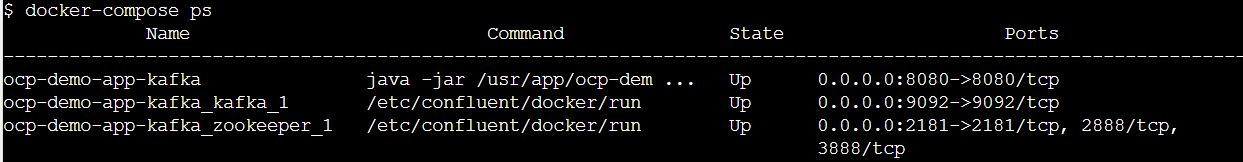
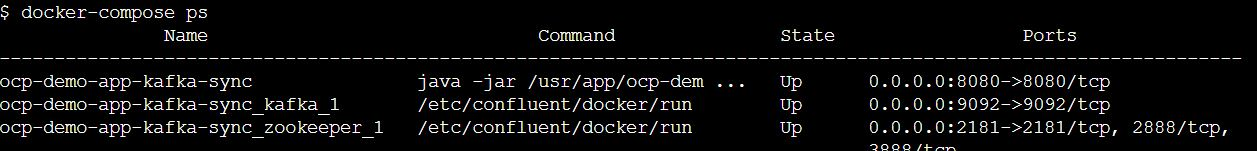
updated ocp-demo-app-kafka-sync

diff --git a/ocp-demo-app-kafka-sync/README.md b/ocp-demo-app-kafka-sync/README.md
@@ -36,12 +36,11 @@ Make sure you are at folder /ocp-demo-app/ocp-demo-app-kafka and run below comma
 * 	This command will use the default file name **docker-compose.yml** 
 * 	Just for demo purpose we are creating only 1-1 instance of zookeeper and kafka. 
 
-![Demo App](images/single-node-zoo-kafka.jpeg)
+![](images/single-node-zoo-kafka.jpeg)
 
 * 	Here is the content of docker-compose.yml
 	
 	version: '3.3'
-
 	services:
 	  zookeeper:
 	    image: confluentinc/cp-zookeeper
@@ -50,6 +49,7 @@ Make sure you are at folder /ocp-demo-app/ocp-demo-app-kafka and run below comma
 	    environment:
 	      - ALLOW_ANONYMOUS_LOGIN=yes
 	      - ZOOKEEPER_CLIENT_PORT=2181
+	
 	
 	  kafka:
 	    image: confluentinc/cp-kafka
@@ -66,9 +66,10 @@ Make sure you are at folder /ocp-demo-app/ocp-demo-app-kafka and run below comma
 	      - KAFKA_OFFSETS_TOPIC_REPLICATION_FACTOR=1
 	      - KAFKA_AUTO_CREATE_TOPICS_ENABLE=true
 	      
+	      
 	  ocp-demo-app-kafka:
 	    build: .
-	    container_name: ocp-demo-app-kafka-stream
+	    container_name: ocp-demo-app-kafka-sync
 	    depends_on:
 	      - zookeeper
 	      - kafka
@@ -77,8 +78,7 @@ Make sure you are at folder /ocp-demo-app/ocp-demo-app-kafka and run below comma
 	      - 8080:8080
 	    environment:
 	      - KAFKA_ENDPOINT=localhost:9092
-
-
+	            
 
 * 	Before running this , you would like to replace the **localhost** with your ip address. 
 
@@ -87,7 +87,6 @@ Make sure you are at folder /ocp-demo-app/ocp-demo-app-kafka and run below comma
 *	Now lets **create/build** image for ocp-demo-app-kafka
 
 	$ docker-compose build
-	
 	
 * 	this command will create image for ocp-demo-app-kafka and you can verify this with docker images comamnd
 
@@ -118,25 +117,23 @@ Make sure you are at folder /ocp-demo-app/ocp-demo-app-kafka and run below comma
 
 *	use below commands to create image and tag and push to docker hub
 
-*	go to folder /ocp-demo-app/ocp-demo-app-db
+*	go to folder /ocp-demo-app/ocp-demo-app-kafka-sync
 
 *	build image with required tag
 
-	$ docker build . -t sumitgupta28/ocp-demo-app-kafka-stream
+	$ docker build . -t <<docker-hub-user-id>>/ocp-demo-app-kafka-sync
 	
-*	this will create docker image with tag	**sumitgupta28/ocp-demo-app-kafka-stream:latest**
+*	this will create docker image with tag	**<<docker-hub-user-id>>/ocp-demo-app-kafka-sync:latest**
 
-*	docker login
+*	docker login [provide your docker-hub username and password] and c
 	
 	$ docker login
 
 *	docker push
 
-	$ docker push sumitgupta28/ocp-demo-app-kafka-stream
+	$ docker push <<docker-hub-user-id>>/ocp-demo-app-kafka-sync
 	
 	
-![Docker Push](images/docker-push.JPG) 
-
 ![Docker Push](images/docker-push-1.JPG) 
 
 
@@ -281,21 +278,20 @@ This will create kafka Server and StatefulSet of kafka with 3 replicas
 	
 > 2.    **Deploy Producer/Consumer Application**
 
-this will create Deployemnt and Service for **ocp-demo-app-kafka-stream** app and 
+this will create Deployemnt and Service for **ocp-demo-app-kafka-sync** app and 
 
-	
 	---
 	
 	apiVersion: v1
 	kind: Service
 	metadata:
-	  name: ocp-demo-app-kafka-stream
+	  name: ocp-demo-app-kafka-sync
 	  labels:
-	    app: ocp-demo-app-kafka-stream
+	    app: ocp-demo-app-kafka-sync
 	spec:
 	  type: NodePort
 	  selector:
-	    app: ocp-demo-app-kafka-stream
+	    app: ocp-demo-app-kafka-sync
 	  ports:
 	  - protocol: TCP
 	    port: 8080
@@ -306,27 +302,26 @@ this will create Deployemnt and Service for **ocp-demo-app-kafka-stream** app an
 	apiVersion: apps/v1
 	kind: Deployment
 	metadata:
-	  name: ocp-demo-app-kafka-stream
+	  name: ocp-demo-app-kafka-sync
 	spec:
 	  selector:
 	    matchLabels:
-	      app: ocp-demo-app-kafka-stream
+	      app: ocp-demo-app-kafka-sync
 	  replicas: 1
 	  template:
 	    metadata:
 	      labels:
-	        app: ocp-demo-app-kafka-stream
+	        app: ocp-demo-app-kafka-sync
 	    spec:
 	      containers:
-	      - name: ocp-demo-app-kafka-stream
-	        image: sumitgupta28/ocp-demo-app-kafka-stream:latest
+	      - name: ocp-demo-app-kafka-sync
+	        image: sumitgupta28/ocp-demo-app-kafka-sync:latest
 	        ports:
 	        - containerPort: 8080
 	        env:
 	          - name: KAFKA_ENDPOINT
 	            value: kafka:9092
-	
-	
+	            
 	
 ![Docker Push](images/ocp-demo-app-kafka-k8s.png) 
 
@@ -334,38 +329,40 @@ this will create Deployemnt and Service for **ocp-demo-app-kafka-stream** app an
 
 ### Kubernetes lets apply..
 
-		
-	$ kubectl apply -f ocp-demo-app-kafka-stream.yml
+	
+	$ kubectl apply  -f ocp-demo-app-kafka-sync.yml
 	service/zookeeper-service created
 	deployment.apps/zookeeper created
 	service/kafka created
 	statefulset.apps/kafka created
-	service/ocp-demo-app-kafka-stream created
-	deployment.apps/ocp-demo-app-kafka-stream created
-			
+	service/ocp-demo-app-kafka-sync created
+	deployment.apps/ocp-demo-app-kafka-sync created
+		
 
 **Validate All the objects**
 
-	
+
 	$ kubectl get all
-	NAME                                             READY   STATUS    RESTARTS   AGE
-	pod/kafka-0                                      1/1     Running   0          5m
-	pod/kafka-1                                      1/1     Running   0          5m9s
-	pod/kafka-2                                      1/1     Running   0          5m34s
-	pod/ocp-demo-app-kafka-stream-5cc96fb497-bmwcg   1/1     Running   0          22m
-	pod/zookeeper-cf4546599-bqqql                    1/1     Running   0          22m
+	NAME                                           READY   STATUS    RESTARTS   AGEpod/kafka-0                                    1/1     Running   0          87s
+	pod/kafka-1                                    1/1     Running   0          57spod/kafka-2                                    1/1     Running   0          54s
+	pod/ocp-demo-app-kafka-sync-65f5cbd7fb-67dgn   1/1     Running   0          87spod/zookeeper-cf4546599-2rnn9                  1/1     Running   0          87s
 	
-	NAME                                TYPE        CLUSTER-IP       EXTERNAL-IP   PORT(S)          AGE
-	service/kafka                       ClusterIP   None             <none>        9092/TCP         22m
-	service/ocp-demo-app-kafka-stream   NodePort    10.109.140.207   <none>        8080:30080/TCP   22m
-	service/zookeeper-service           NodePort    10.108.213.119   <none>        2181:30462/TCP   22m
-	
-	NAME                                        READY   UP-TO-DATE   AVAILABLE   AGE
-	deployment.apps/ocp-demo-app-kafka-stream   1/1     1            1           22m
-	deployment.apps/zookeeper                   1/1     1            1           22m
-	
-	NAME                                                   DESIRED   CURRENT   READY   AGE
-	replicaset.apps/ocp-demo-app-kafka-stream-5cc96fb497   1         1         1       22mreplicaset.apps/zookeeper-cf4546599                    1         1         1       22m
+	NAME                              TYPE        CLUSTER-IP       EXTERNAL-IP   PORT(S)          AGE
+	service/kafka                     ClusterIP   None             <none>        9092/TCP         87s
+	service/ocp-demo-app-kafka-sync   NodePort    10.111.244.232   <none>        8080:30080/TCP   87s
+	service/zookeeper-service         NodePort    10.104.141.46    <none>        2181:30126/TCP   87s
+
+	NAME                                      READY   UP-TO-DATE   AVAILABLE   AGE
+	deployment.apps/ocp-demo-app-kafka-sync   1/1     1            1           87s
+	deployment.apps/zookeeper                 1/1     1            1           87s
+
+	NAME                                                 DESIRED   CURRENT   READY   AGE
+	replicaset.apps/ocp-demo-app-kafka-sync-65f5cbd7fb   1         1         1       87s
+	replicaset.apps/zookeeper-cf4546599                  1         1         1       87s
+
+	NAME                     READY   AGE
+	statefulset.apps/kafka   3/3     87s
+
 	
 
 ### Validate Application..
@@ -378,20 +375,44 @@ This Application has swagger configured and both the exposed urls can be tested 
 
 #### Test with curl
 
-	curl -X POST --header 'Content-Type: application/json' --header 'Accept: text/plain' -d '{
-	  "contents": "Sample Message"
-	}' 'https://2886795294-30080-ollie09.environments.katacoda.com/sendMessage/complexType'
+	curl -X POST --header 'Content-Type: application/json' --header 'Accept: application/json' -d '{
+	  "emailId": "Sumit@mail.com",
+	  "firstName": "string",
+	  "lastName": "string"
+	}' 'http://ip172-18-0-12-bvvv0mb6hnp0009smbq0-8080.direct.labs.play-with-docker.com/emp/calSal'
+	
+**Response Body**
 
+	{
+	  "name": "string string",
+	  "sal": "6370$"
+	}
 
-	2021-01-14 06:27:54.571  INFO 1 --- [container-0-C-1] com.ocp.demo.kafka.consumer.Consumer     : recieved a complex message : [6:27:54 AM]: Sample Message
-	2021-01-14 06:27:54.571  INFO 1 --- [container-0-C-1] com.ocp.demo.kafka.consumer.Consumer     : recieved a string message : {"contents":"Sample Message","time":1610605674560}
 	
 	
-	curl -X POST --header 'Content-Type: application/json' --header 'Accept: text/plain' -d '{
-	"Name": "Sumit"
-	}' 'https://2886795294-30080-ollie09.environments.katacoda.com/sendMessage/string'
+	
+**Curl**
+	
+	curl -X POST --header 'Content-Type: application/json' --header 'Accept: application/json' -d '{
+	  "emailId": "string",
+	  "firstName": "string",
+	  "lastName": "string"
+	}' 'https://2886795280-30080-cykoria03.environments.katacoda.com/emp/calSal'
+	
 
+**Request URL**
 
-	2021-01-14 06:31:36.379  INFO 1 --- [container-0-C-1] com.ocp.demo.kafka.consumer.Consumer     : recieved a string message : {
-	"Name": "Sumit"
+	https://2886795280-30080-cykoria03.environments.katacoda.com/emp/calSal
+
+**Request Headers**
+
+	{
+	  "Accept": "application/json"
+	}
+
+**Response Body**
+
+	{
+	  "name": "string string",
+	  "sal": "1534$"
 	}
